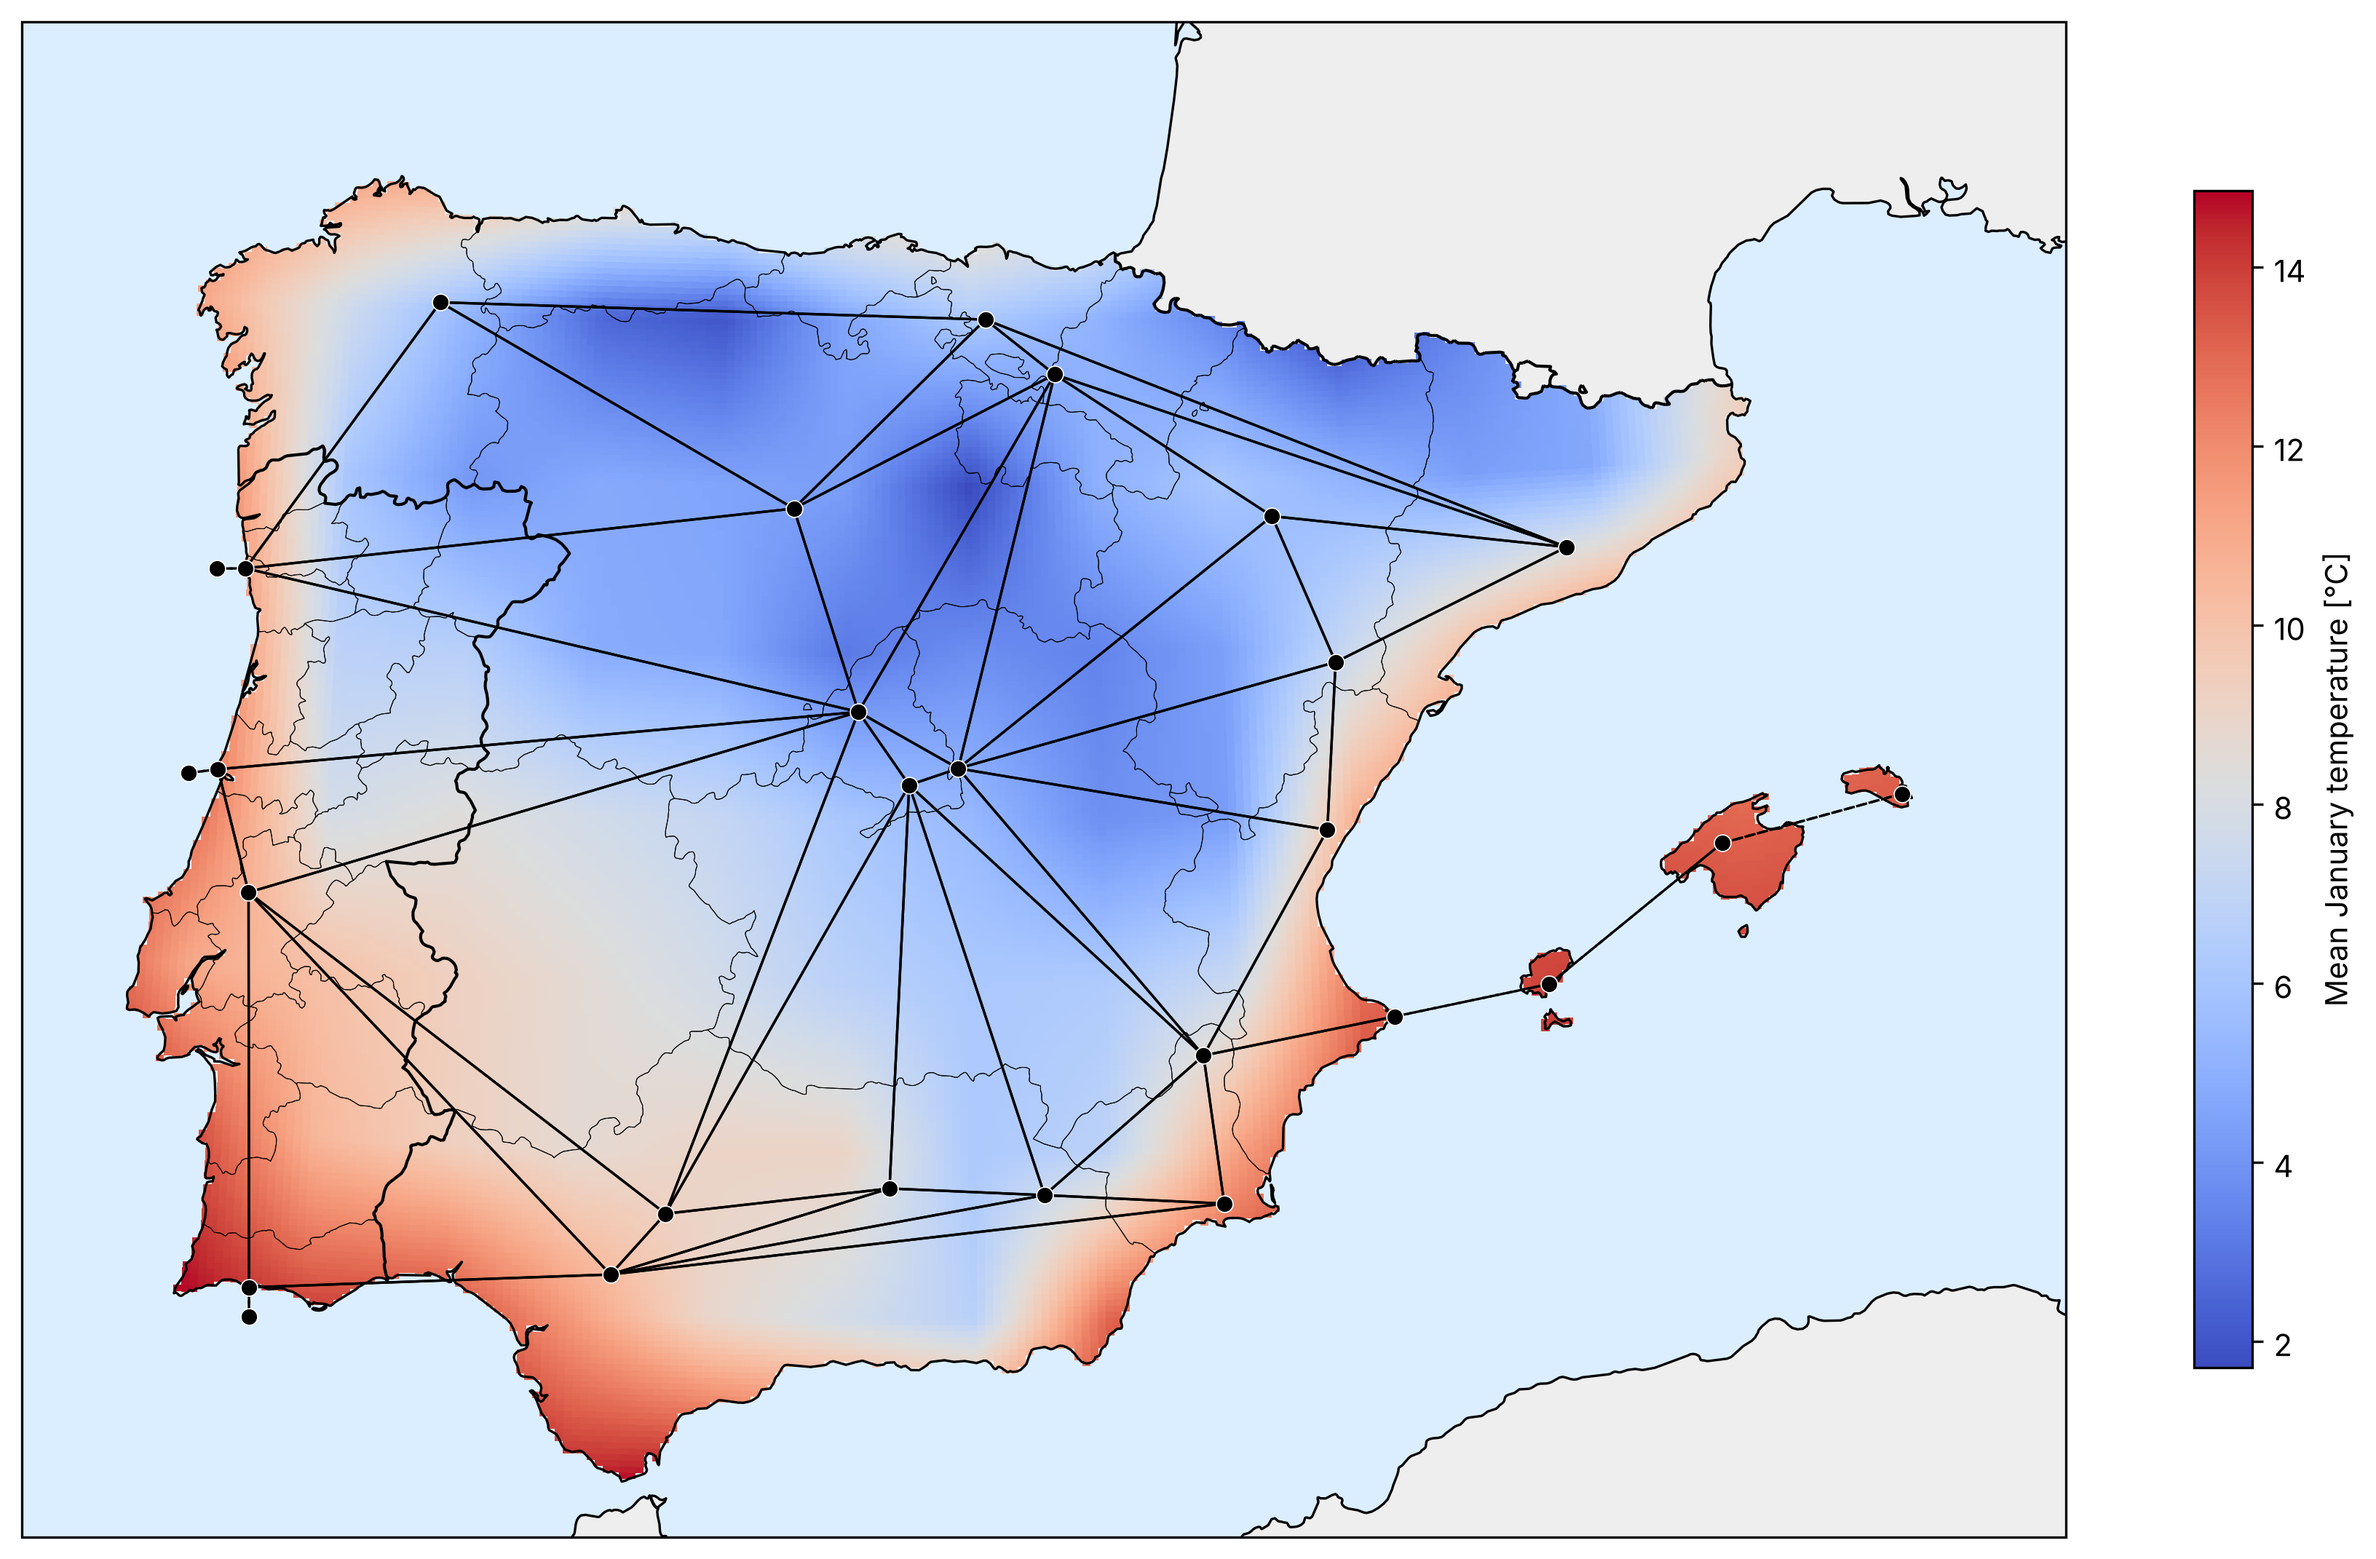
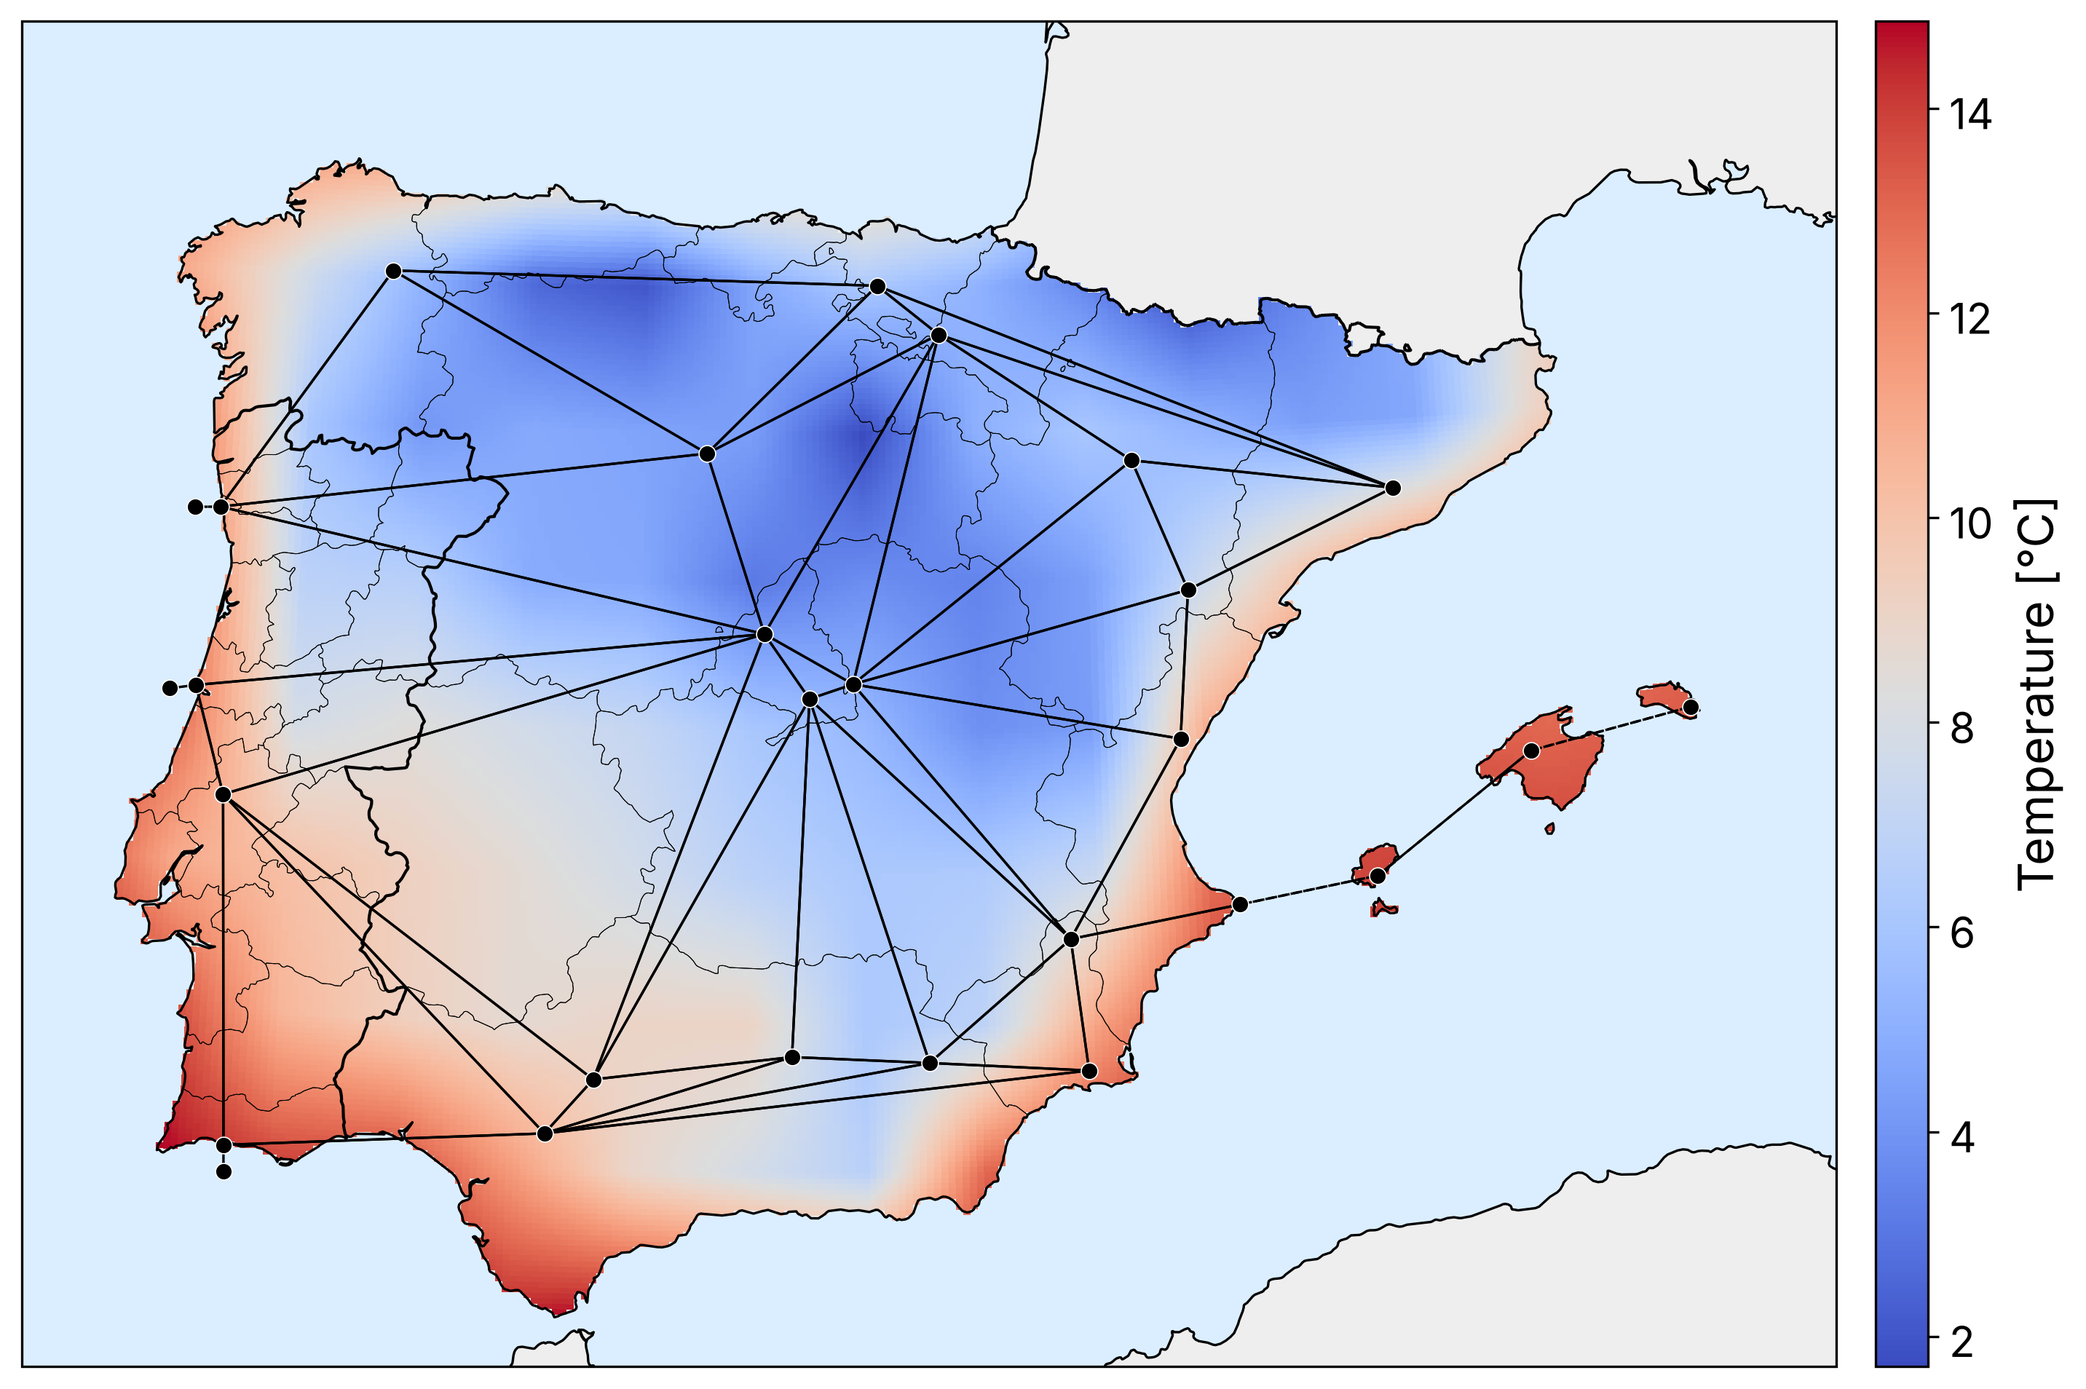
Align colorbar with map height and enlarge colorbar labels
Claude-Session: https://claude.ai/code/session_01Dh7L3AXCZphdqJGiPB8DoY

diff --git a/romans_playground/08_generate_temp_map.py b/romans_playground/08_generate_temp_map.py
@@ -198,10 +198,14 @@ ax.scatter(
     zorder=4
 )
 
-cbar = plt.colorbar(heatmap, orientation="vertical", shrink=0.7)
-cbar.set_label(f"Mean {MONTH_NAME} temperature [°C]")
+# Colorbar exactly as tall as the map (map size is fixed by the projection aspect)
+ax.apply_aspect()
+map_pos = ax.get_position()
+cax = plt.gcf().add_axes([map_pos.x1 + 0.015, map_pos.y0, 0.02, map_pos.height])
 
-plt.tight_layout()
+cbar = plt.colorbar(heatmap, cax=cax, orientation="vertical")
+cbar.set_label("Temperature [°C]", fontsize=16)
+cbar.ax.tick_params(labelsize=14)
 plt.savefig(FIGURE_FILE, dpi=300, bbox_inches="tight")
 plt.show()
 
